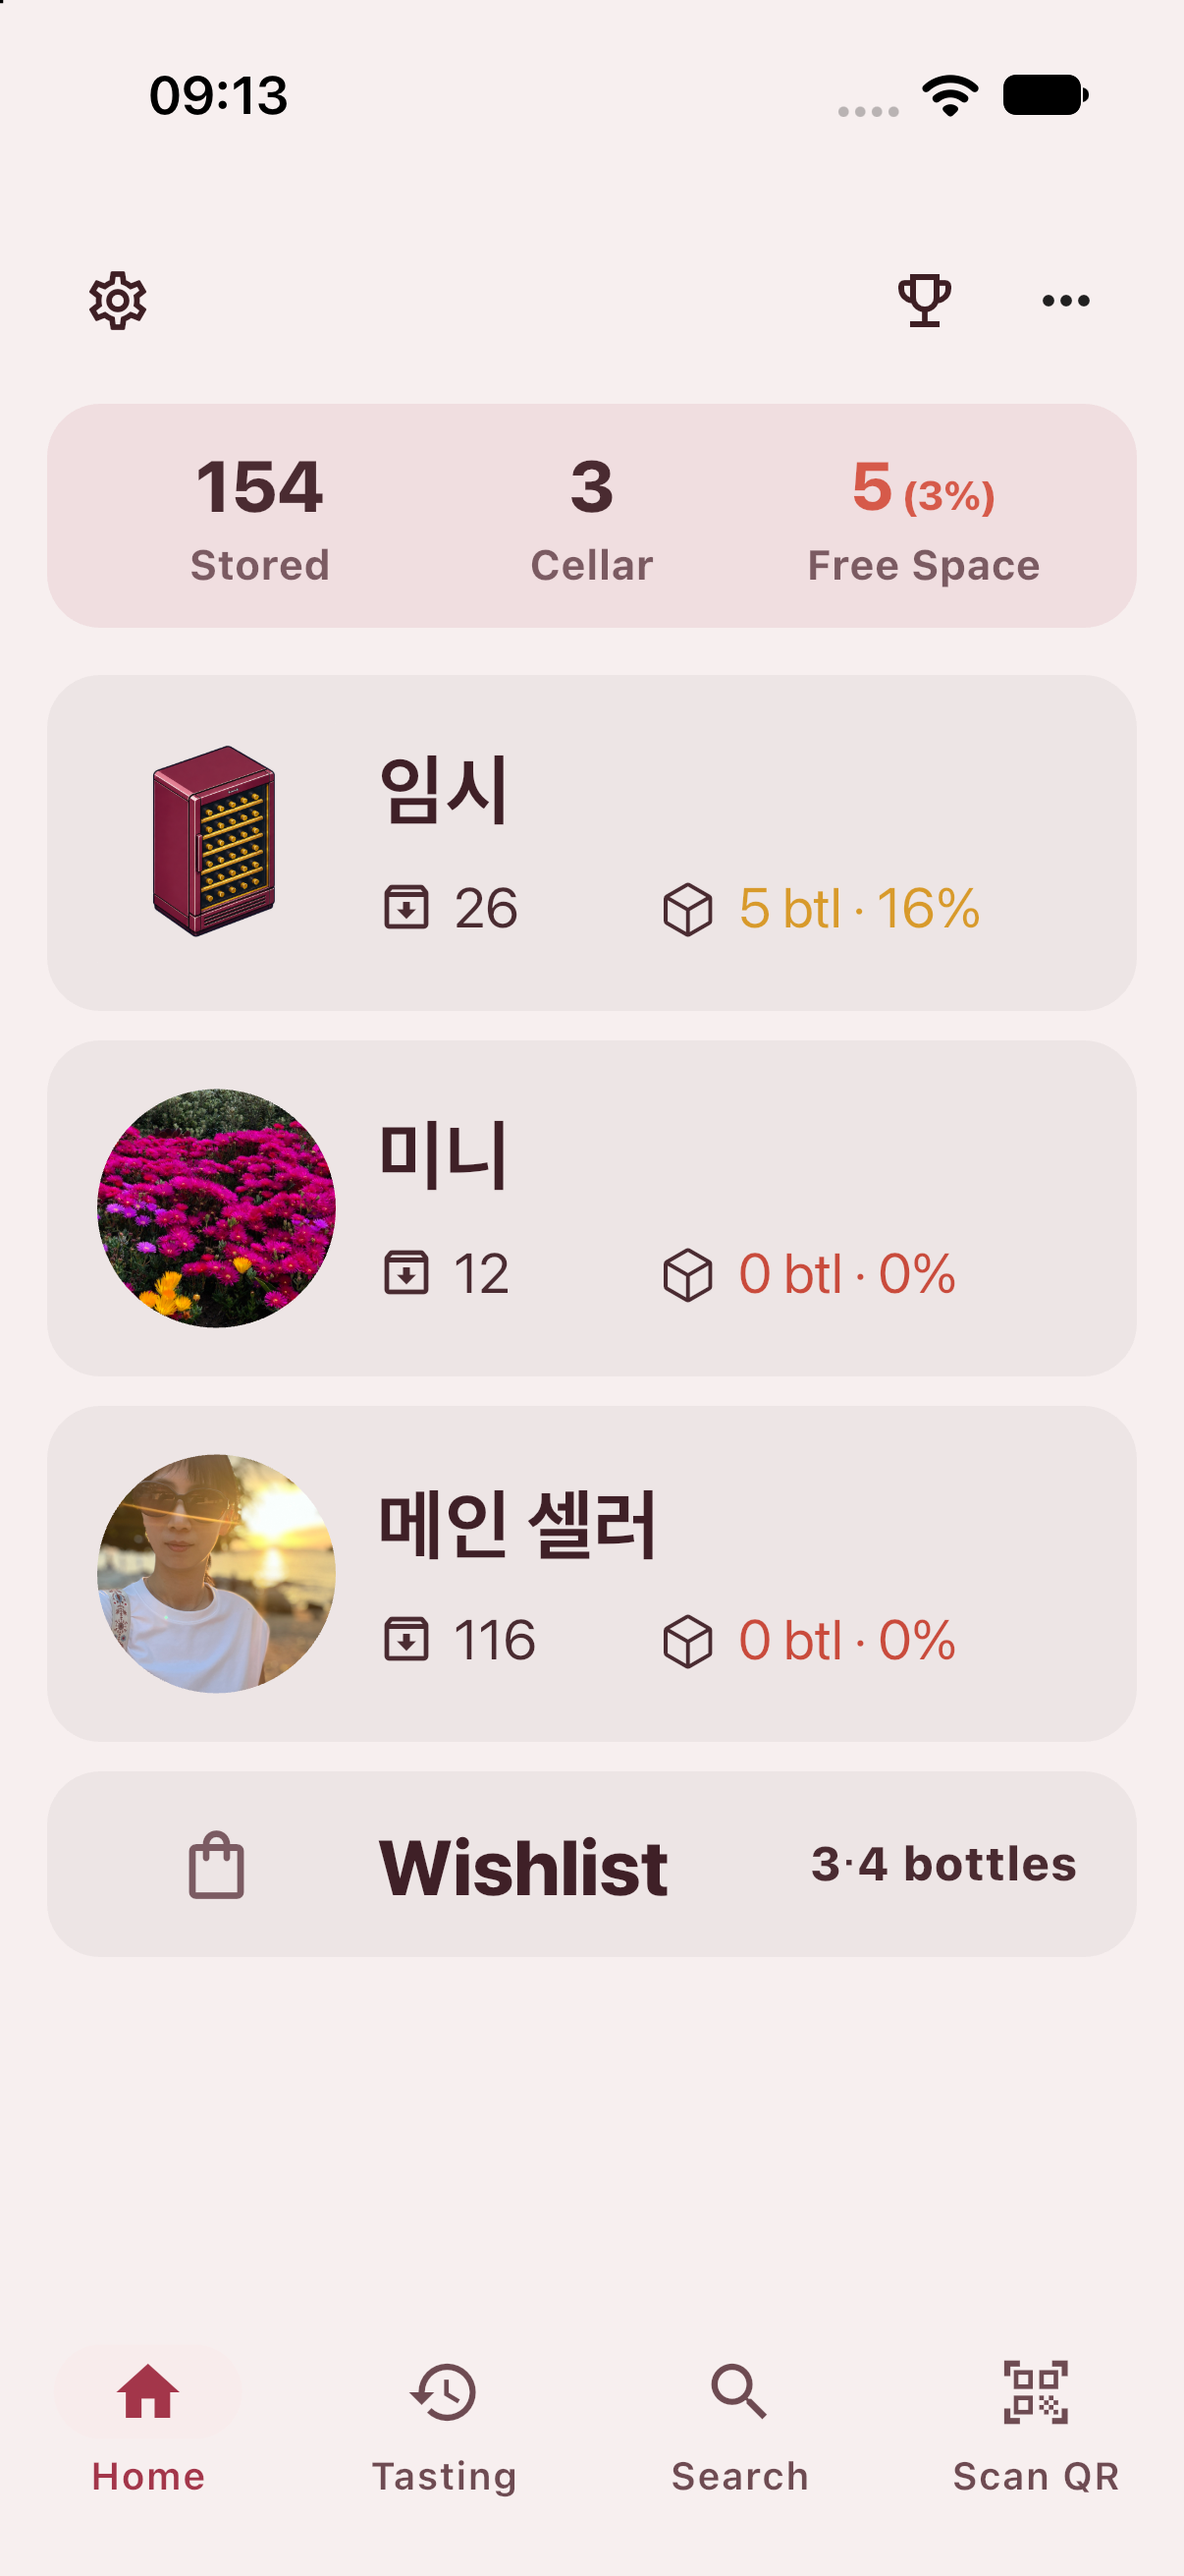
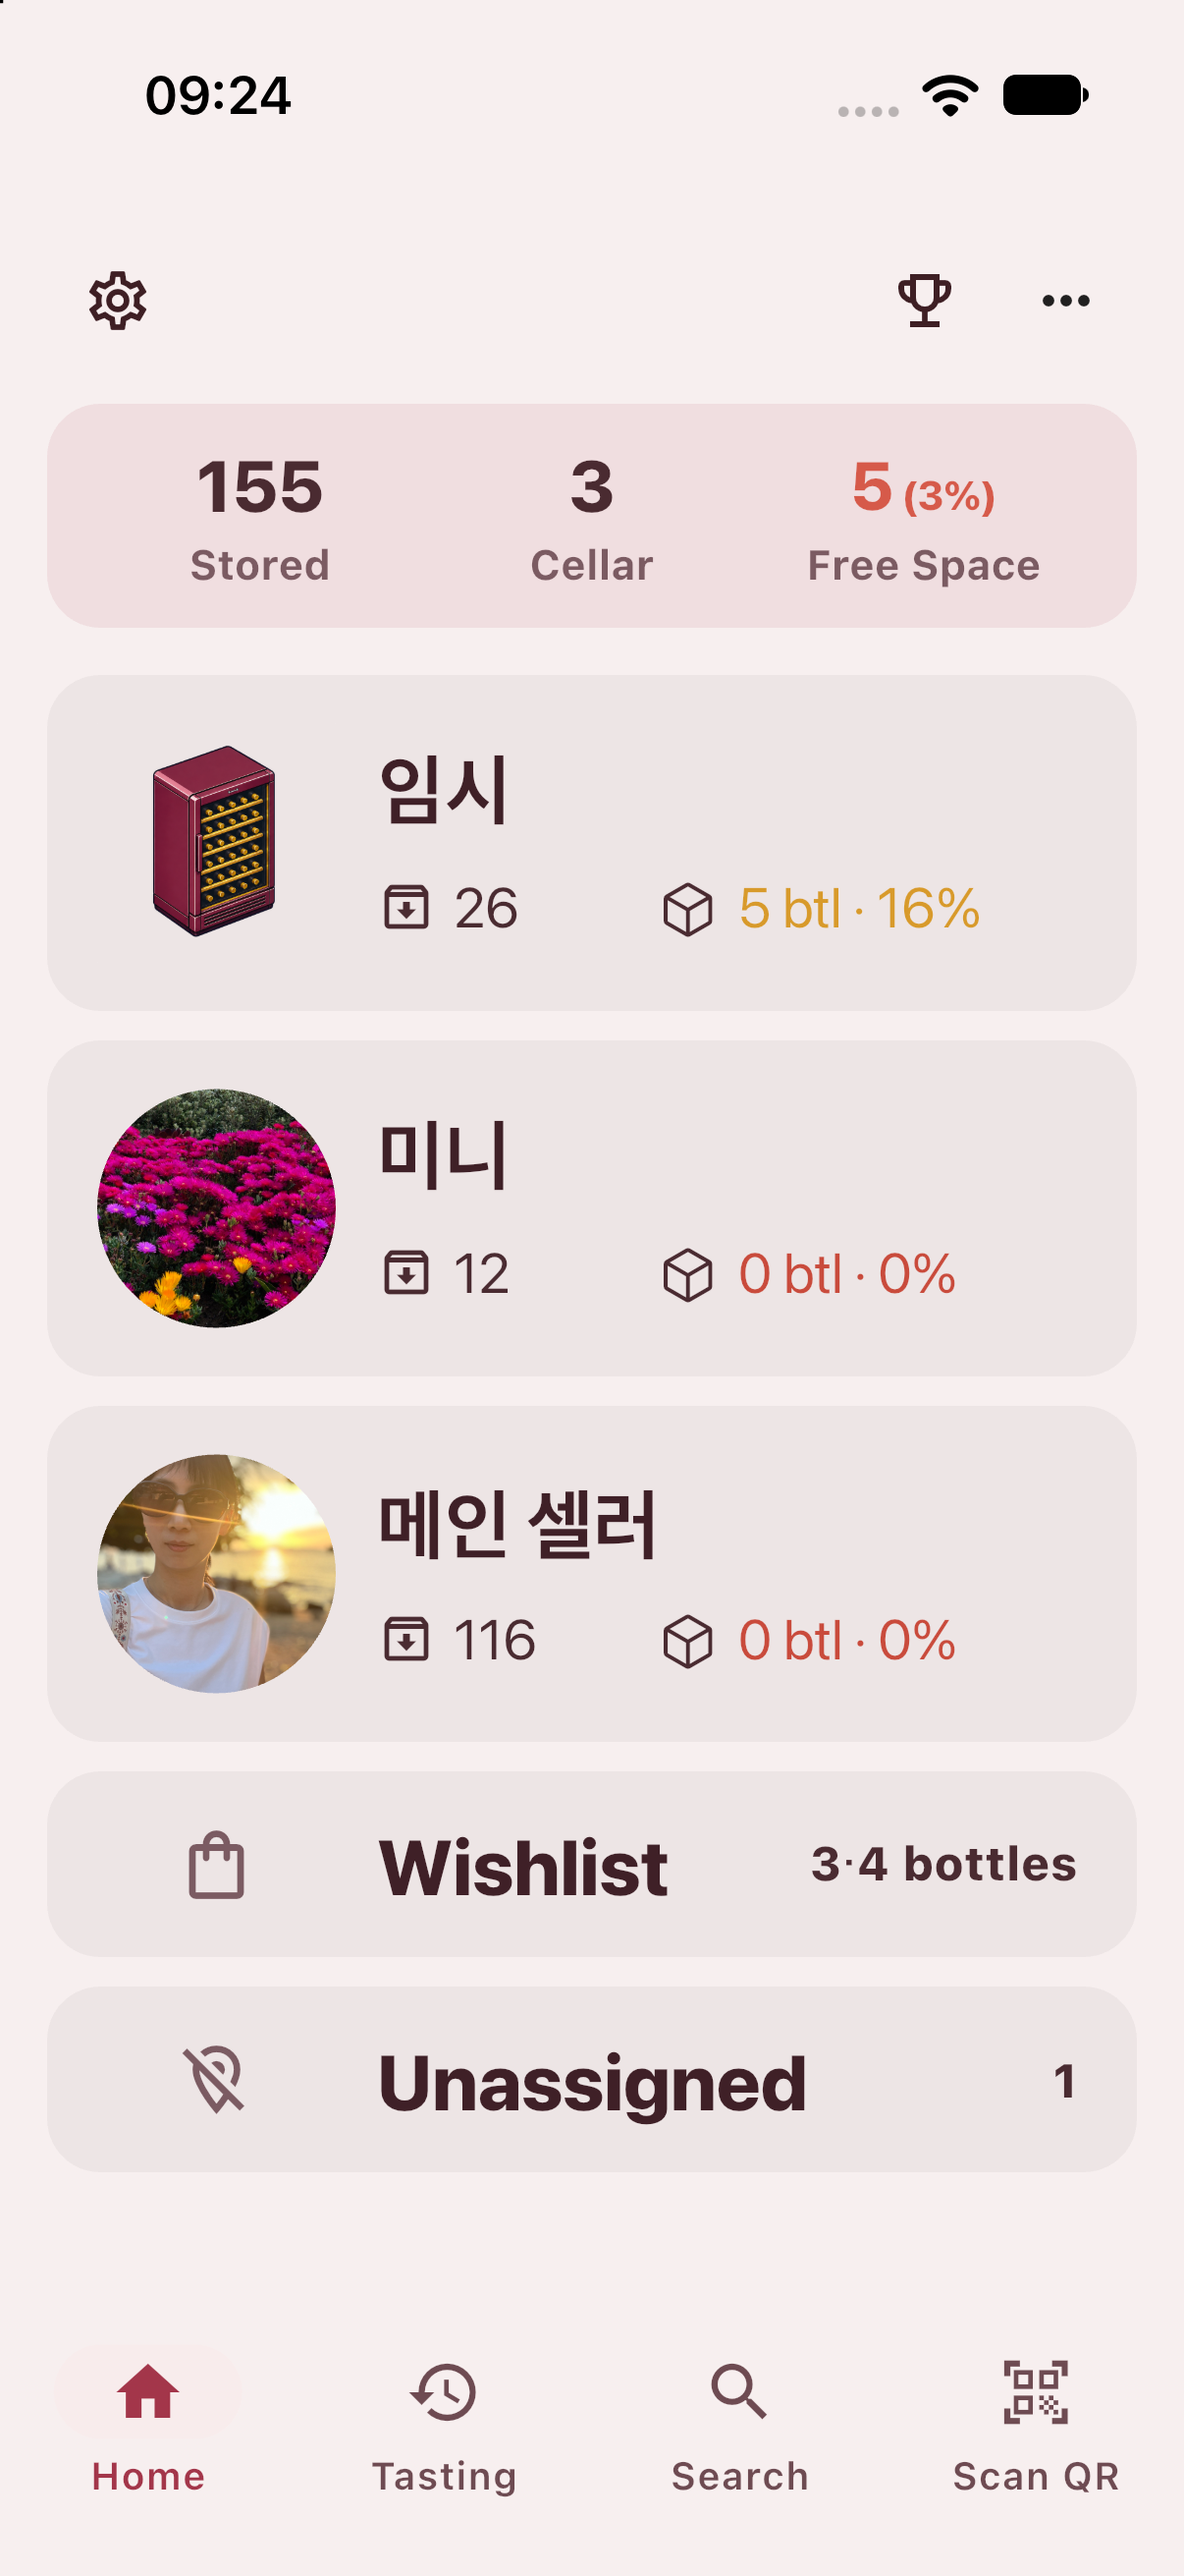
Show unassigned wine and highlight tasting amount fields

diff --git a/features.html b/features.html
@@ -94,7 +94,7 @@
             <h3>내 와인과 셀러 관리</h3>
             <p>어느 셀러에 어떤 와인이 있는지, 같은 와인이 몇 병 남았는지 한눈에 살펴보세요. 셀러의 층과 자리를 실제 보관 모습에 맞게 구성하고, 같은 와인도 한 병씩 구분해 관리할 수 있습니다. 셀러에 넣지 않은 와인은 위치 미지정으로 보관하시면 됩니다.</p>
             <div class="feature-media">
-              <figure class="feature-shot"><a href="images/features/olwine-home-ko.png"><img src="images/features/olwine-home-ko.png" alt="셀러별 보관 현황" width="1206" height="2622" loading="lazy"></a><figcaption>셀러별 보관 현황</figcaption></figure>
+              <figure class="feature-shot"><a href="images/features/olwine-home-ko.png"><img src="images/features/olwine-home-ko.png" alt="셀러별 보관 현황과 위치 미지정 와인 1병" width="1206" height="2622" loading="lazy"></a><figcaption>셀러별 보관 현황</figcaption></figure>
               <figure class="feature-shot"><a href="images/features/cellar-layout.png"><img src="images/features/cellar-layout.png" alt="메인 셀러 11층에서 A3의 로제 와인을 드래그하며 보관 자리를 옮기는 모습" width="1206" height="2622" loading="lazy"></a><figcaption>층과 자리별 와인 배치</figcaption></figure>
             </div>
           </article>
@@ -103,7 +103,7 @@
             <p>조금씩 나누어 마신 와인도 마신 양과 남은 양을 기록할 수 있습니다. 평점과 사진, 메모뿐 아니라 바디·탄닌·당도·산미와 향미도 남겨보세요. 한 병에 여러 번의 시음 기록을 쌓을 수 있고, 사진 목록에서는 라벨과 그날의 기억을 함께 되짚어볼 수 있습니다.</p>
             <div class="feature-media">
               <figure class="feature-shot"><a href="images/features/olwine-tasting-photos-ko.png"><img src="images/features/olwine-tasting-photos-ko.png" alt="사진으로 돌아보는 시음 기록" width="1206" height="2622" loading="lazy"></a><figcaption>사진으로 돌아보는 시음 기록</figcaption></figure>
-              <figure class="feature-shot"><a href="images/features/partial-tasting.png"><img src="images/features/partial-tasting.png" alt="마신 양과 평점 기록" width="1206" height="2622" loading="lazy"></a><figcaption>마신 양과 평점 기록</figcaption></figure>
+              <figure class="feature-shot"><a href="images/features/partial-tasting.png"><img src="images/features/partial-tasting.png" alt="시음량 단위와 ml 수량 입력란을 붉은 박스로 강조한 시음 기록" width="851" height="1849" loading="lazy"></a><figcaption>마신 양과 평점 기록</figcaption></figure>
             </div>
           </article>
           <article class="feature-item" id="organization-ko">

diff --git a/FEATURE_SCREENSHOT_BRIEF.md b/FEATURE_SCREENSHOT_BRIEF.md
@@ -22,7 +22,7 @@
 - iPhone 17 / iOS 27.0 Simulator의 실제 앱 화면을 사용했다.
 - 사용자가 공개 촬영을 위해 넣어둔 사진은 유지했다. 허용한 시뮬레이터 데이터 변경 범위에서 구매희망의 임시 입력을 예시 와인 3종·4병으로 정리하고, 홈의 수량도 이에 맞춰 갱신했다. 사진 목록은 사진이 있는 기록이 대부분인 2026년 10월 첫 화면을 선택했다. 이후 사용자 요청으로 ‘셀러’를 ‘메인 셀러’로 바꾸고 한국어·영어 홈을 다시 촬영했다. 같은 셀러의 11층 8병은 종류를 각각 레드·화이트·로제·스파클링·디저트·주정강화·오렌지·기타로 지정했다. 와인명·위치·수량·시음 기록·사진은 유지했다.
 - 홈·시음 입력·검색 결과·검색 필터·구매희망·QR 생성은 한국어·영어로 각각 촬영했다. 층 배치는 사용자 제공 한국어 녹화의 실제 드래그 프레임을 양쪽 페이지에 사용한다. QR 연결 정보는 아래 사용자 제공 원본과 영문 번역 편집본을 사용한다. 한국어 UI를 사용하는 영어 본문 캡션에는 Korean UI를 표기한다.
-- QR 연결 정보의 영문 번역 편집본을 제외한 새 화면은 원본 PNG를 사용하며, 실제 AI 결과의 임의 작성은 하지 않는다.
+- QR 연결 정보의 영문 번역 편집본과 한국어 시음 입력의 붉은 박스 주석본을 제외한 새 화면은 원본 PNG를 사용하며, 실제 AI 결과의 임의 작성은 하지 않는다.
 - AI 요청을 실행하거나 서버 정책·지급량·요금제·앱 권한을 변경하지 않았다.
 
 ## 나머지 캡처 대조 결과 (2026-10-19)
@@ -31,10 +31,10 @@
 
 | 장면 | 확인 결과와 조치 |
 | --- | --- |
-| 홈 | 현재 UI와 동일. 구매희망 예시 수량을 반영하고, ‘메인 셀러’로 이름 변경 후 한국어·영어 재촬영 |
+| 홈 | 현재 UI와 동일. 구매희망 예시 수량과 ‘메인 셀러’ 이름을 반영. 이후 위치 미지정 ‘보관 예정 와인’ 1병을 추가해 총 보관 155병·미지정 1병 상태로 한국어·영어 재촬영 |
 | 층과 자리별 배치 | 사용자 제공 녹화의 6.58초 프레임으로 교체. 메인 셀러 11층 A3의 로제 와인이 원래 자리에서 떨어져 드래그되는 모습. 영문에도 같은 한국어 원본 사용 |
 | 시음 사진 목록 | 현재 사진 목록과 동일해 유지 |
-| 시음 입력 | 사진·와인 헤더·시음량·평점 입력 구성이 달라 한국어·영어 재촬영 |
+| 시음 입력 | 사진·와인 헤더·시음량·평점 입력 구성이 달라 한국어·영어 재촬영. 한국어는 사용자 요청으로 ‘시음량’과 ‘ml’ 수량 두 필드만 붉은 굵은 사각 테두리로 강조 |
 | 셀러 정리 시작 | 현재 카드 구성과 동일해 유지 |
 | 간단 위치 변경 | 현재 화면과 동일해 유지 |
 | 검색 결과 | 현재 목록·와인별 보기·상태 범례로 한국어·영어 재촬영 |
@@ -52,6 +52,8 @@
 앞선 추가 작업에서는 14개 PNG를 준비했다. 9월의 한국어·영어 캡처 12개와 한국어 홈을 교체하고 영어 홈 1개를 추가했다. 이 캡처의 실제 크기는 1206×2622이다. 영문 시음 입력의 가로 스크롤 행은 시음량·평점이 보이는 위치에서 촬영했다.
 
 QR 연결 정보 이미지는 이후 사용자 제공 스크린샷으로 교체했다. 한국어 `qr-scan-result.png`는 제공 원본(1206×2622)이며, 영문 `qr-scan-result_e.png`는 내장 imagegen의 텍스트 번역 편집본(851×1849)이다. 편집 지시는 화면 구성·색상·와인 정보·숫자·카메라 영역을 유지하고 한국어 항목명과 버튼을 영어로 바꾸는 내용이다. 영문 이미지는 실제 앱에서 다시 촬영한 화면이 아니며, 이미지 안의 QR은 스캔 기능 검증용으로 사용하지 않는다.
+
+한국어 `partial-tasting.png`는 내장 imagegen으로 기존 캡처의 ‘시음량’ 단위 필드와 ‘ml / 600’ 수량 필드에만 붉은 굵은 사각 테두리를 추가한 주석본(851×1849)이다. 편집 지시는 두 필드 전체를 각각 감싸되 평점 필드는 제외하고 나머지 문구·값·구성을 유지하는 내용이다. 영문 시음 입력 이미지는 이번 요청에서 변경하지 않았다.
 
 ## 공개 전 확인할 사항
 
